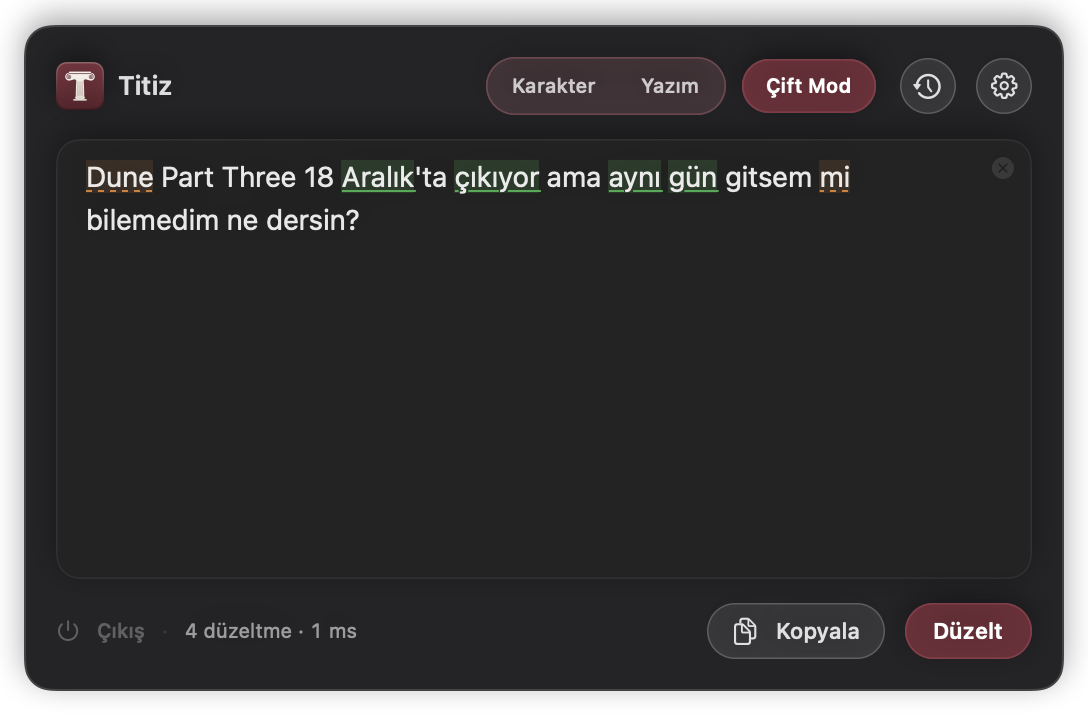
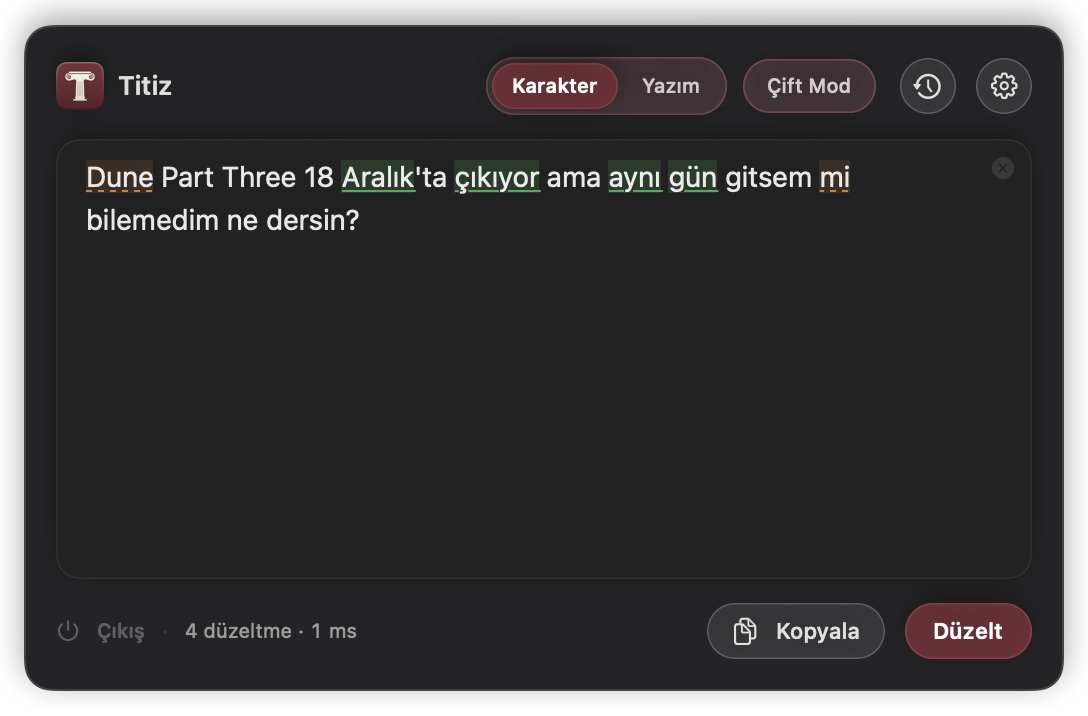
release: prepare v1.0.0 and refresh screenshots

Changed region(s): [[0.4375, 0.0615, 0.625, 0.1536], [0.6562, 0.0615, 0.8125, 0.1536]]

diff --git a/Sources/TitizApp/AppUpdater.swift b/Sources/TitizApp/AppUpdater.swift
@@ -87,11 +87,11 @@ enum AppUpdater {
                 return trimmed
             }
         }
-        return "0.1.2"
+        return "1.0.0"
     }
 
     static var currentVersion: SemanticVersion {
-        SemanticVersion(parsing: currentVersionString) ?? SemanticVersion(major: 0, minor: 1, patch: 2)
+        SemanticVersion(parsing: currentVersionString) ?? SemanticVersion(major: 1, minor: 0, patch: 0)
     }
 
     static func canSelfInstallFromCurrentBundle() -> Bool {

diff --git a/Sources/TitizCore/TitizEngine.swift b/Sources/TitizCore/TitizEngine.swift
@@ -4,7 +4,7 @@ import Foundation
 /// Pure Swift, deterministic Turkish proofreading engine.
 public struct TitizEngine: Sendable {
     /// Semantic version of the TitizCore engine.
-    public static let version = "0.1.2"
+    public static let version = "1.0.0"
 
     /// Version string exposed by the underlying `CHunspell` bridge.
     public static var hunspellBridgeVersion: String {
